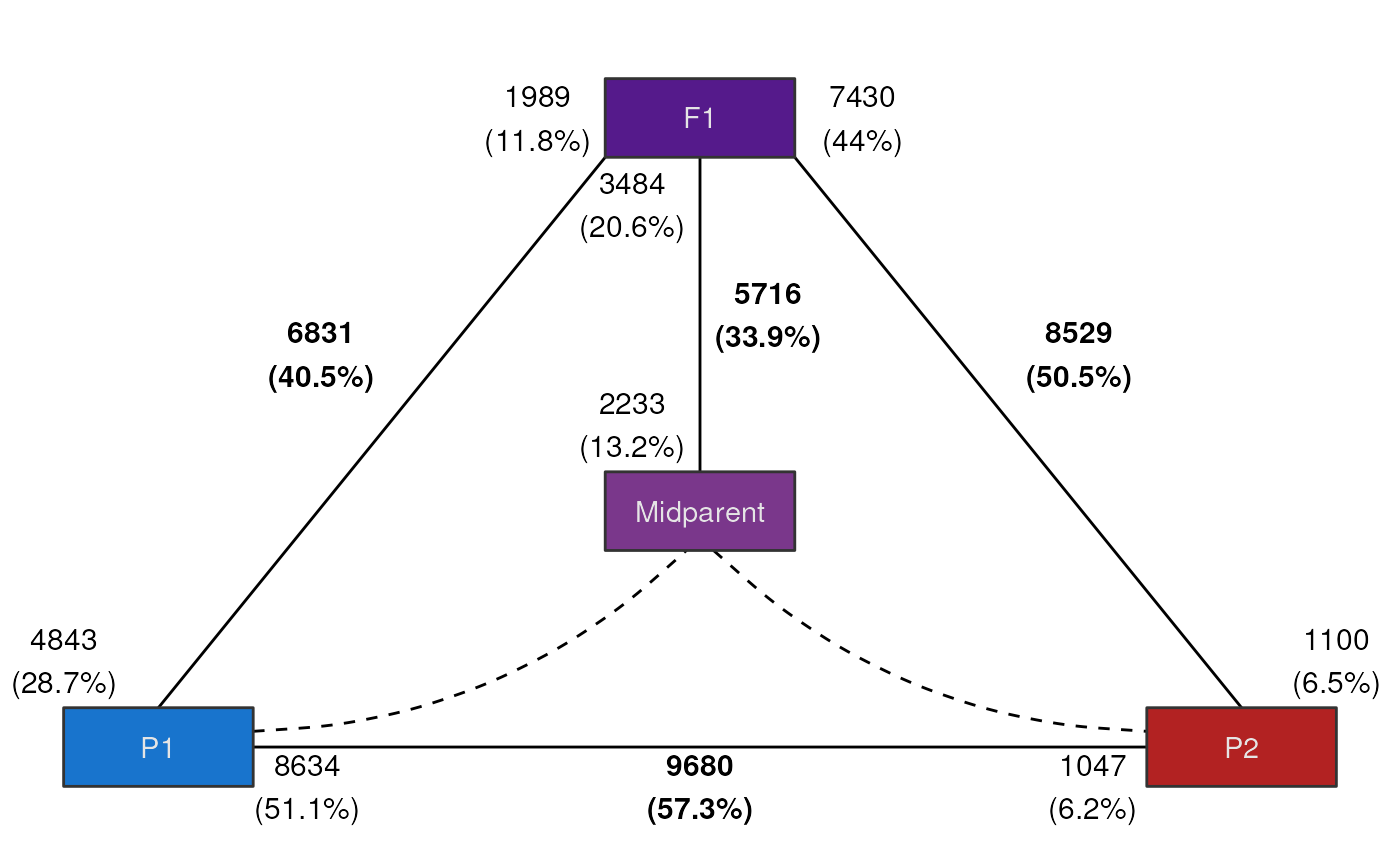
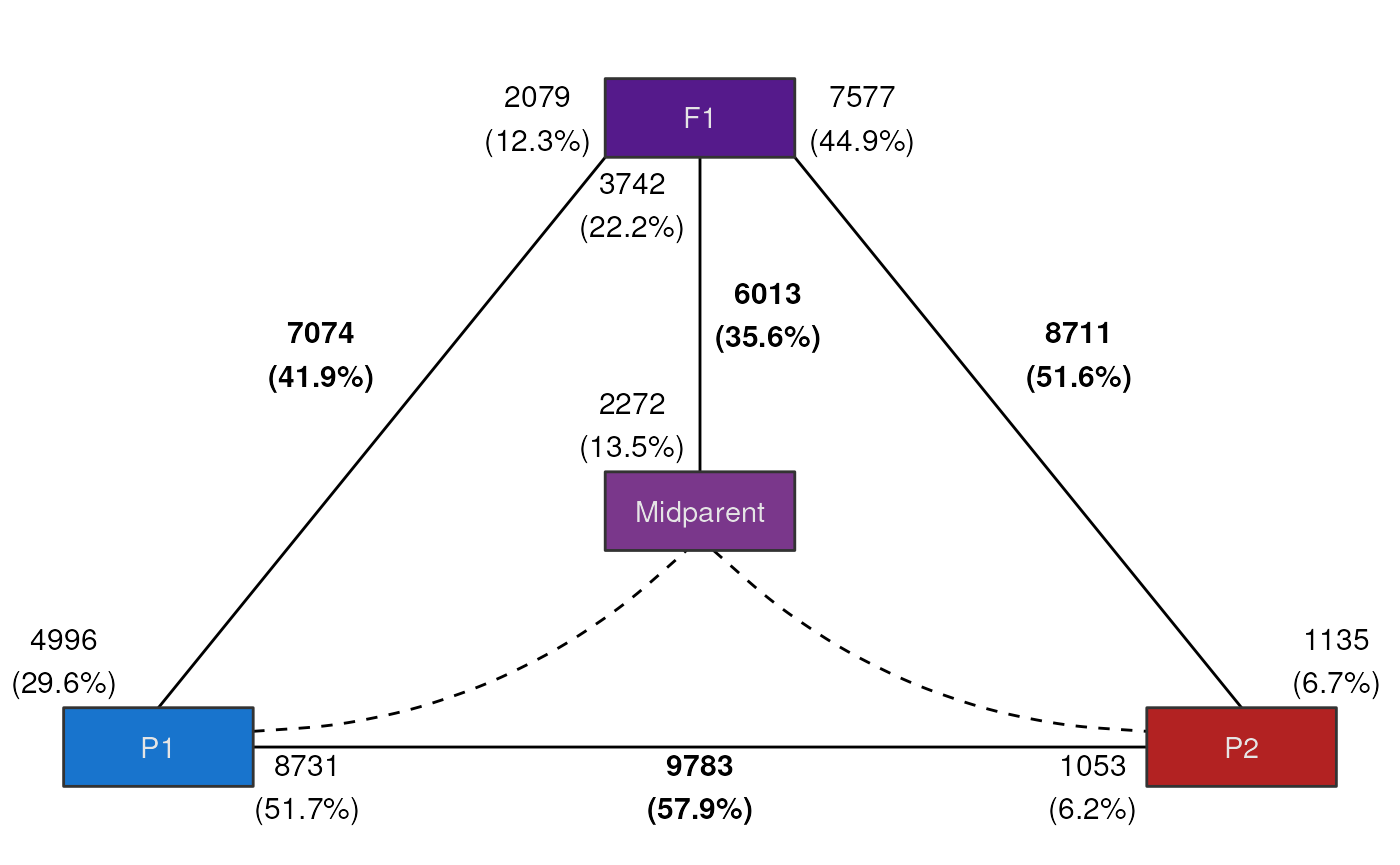
Deploying to gh-pages from @ almeidasilvaf/HybridExpress@a2151b02d52b8f1ba49b37ee3505ee9e380d1bde 🚀

diff --git a/articles/HybridExpress.html b/articles/HybridExpress.html
@@ -259,19 +259,19 @@ respectively).</p>
 <span><span class="co">#&gt; Cre01.g000300 1242 839 1216 1251 811 1785 1341 1306 1122 877 844 1082 1704 1739</span></span>
 <span><span class="co">#&gt; Cre01.g000350  412 264  294  336 252  478  233  221  195 155 190  201  299  272</span></span>
 <span><span class="co">#&gt;                S15  S16  S17  S18 midparent1 midparent2 midparent3 midparent4</span></span>
-<span><span class="co">#&gt; Cre01.g000050   29   22   21   16         22         22         28         14</span></span>
-<span><span class="co">#&gt; Cre01.g000150   37   17   24   21         43         46         36         20</span></span>
-<span><span class="co">#&gt; Cre01.g000200   24   26   18   21         19         24         22         16</span></span>
-<span><span class="co">#&gt; Cre01.g000250  358  339  340  332        333        348        410        254</span></span>
-<span><span class="co">#&gt; Cre01.g000300 1524 1720 1517 1243       1278       1182       1434        828</span></span>
-<span><span class="co">#&gt; Cre01.g000350  276  324  246  275        264        304        340        221</span></span>
+<span><span class="co">#&gt; Cre01.g000050   29   22   21   16         16         14         18         24</span></span>
+<span><span class="co">#&gt; Cre01.g000150   37   17   24   21         26         22         32         50</span></span>
+<span><span class="co">#&gt; Cre01.g000200   24   26   18   21         14         16         19         25</span></span>
+<span><span class="co">#&gt; Cre01.g000250  358  339  340  332        269        254        310        356</span></span>
+<span><span class="co">#&gt; Cre01.g000300 1524 1720 1517 1243        966        960       1030       1292</span></span>
+<span><span class="co">#&gt; Cre01.g000350  276  324  246  275        224        232        242        322</span></span>
 <span><span class="co">#&gt;               midparent5 midparent6</span></span>
-<span><span class="co">#&gt; Cre01.g000050         20         14</span></span>
-<span><span class="co">#&gt; Cre01.g000150         72         31</span></span>
-<span><span class="co">#&gt; Cre01.g000200         22         17</span></span>
-<span><span class="co">#&gt; Cre01.g000250        303        216</span></span>
-<span><span class="co">#&gt; Cre01.g000300       1278        858</span></span>
-<span><span class="co">#&gt; Cre01.g000350        278        210</span></span>
+<span><span class="co">#&gt; Cre01.g000050         20         27</span></span>
+<span><span class="co">#&gt; Cre01.g000150         66         52</span></span>
+<span><span class="co">#&gt; Cre01.g000200         18         26</span></span>
+<span><span class="co">#&gt; Cre01.g000250        246        430</span></span>
+<span><span class="co">#&gt; Cre01.g000300       1064       1546</span></span>
+<span><span class="co">#&gt; Cre01.g000350        246        350</span></span>
 <span></span>
 <span><span class="co"># Alternative 1: using the sum of the counts</span></span>
 <span><span class="fu"><a href="../reference/add_midparent_expression.html">add_midparent_expression</a></span><span class="op">(</span><span class="va">se_chlamy</span>, method <span class="op">=</span> <span class="st">"sum"</span><span class="op">)</span> <span class="op">|&gt;</span></span>
@@ -285,19 +285,19 @@ respectively).</p>
 <span><span class="co">#&gt; Cre01.g000300 1242 839 1216 1251 811 1785 1341 1306 1122 877 844 1082 1704 1739</span></span>
 <span><span class="co">#&gt; Cre01.g000350  412 264  294  336 252  478  233  221  195 155 190  201  299  272</span></span>
 <span><span class="co">#&gt;                S15  S16  S17  S18 midparent1 midparent2 midparent3 midparent4</span></span>
-<span><span class="co">#&gt; Cre01.g000050   29   22   21   16         32         54         48         46</span></span>
-<span><span class="co">#&gt; Cre01.g000150   37   17   24   21         81         91        101        140</span></span>
-<span><span class="co">#&gt; Cre01.g000200   24   26   18   21         39         44         50         41</span></span>
-<span><span class="co">#&gt; Cre01.g000250  358  339  340  332        668        745        712        587</span></span>
-<span><span class="co">#&gt; Cre01.g000300 1524 1720 1517 1243       2522       2662       2583       2373</span></span>
-<span><span class="co">#&gt; Cre01.g000350  276  324  246  275        515        633        645        531</span></span>
+<span><span class="co">#&gt; Cre01.g000050   29   22   21   16         32         50         34         58</span></span>
+<span><span class="co">#&gt; Cre01.g000150   37   17   24   21         68        150         70         86</span></span>
+<span><span class="co">#&gt; Cre01.g000200   24   26   18   21         32         43         38         50</span></span>
+<span><span class="co">#&gt; Cre01.g000250  358  339  340  332        554        604        527        810</span></span>
+<span><span class="co">#&gt; Cre01.g000300 1524 1720 1517 1243       2093       2592       1961       2629</span></span>
+<span><span class="co">#&gt; Cre01.g000350  276  324  246  275        449        569        459        668</span></span>
 <span><span class="co">#&gt;               midparent5 midparent6</span></span>
-<span><span class="co">#&gt; Cre01.g000050         29         28</span></span>
-<span><span class="co">#&gt; Cre01.g000150         39         43</span></span>
-<span><span class="co">#&gt; Cre01.g000200         31         33</span></span>
-<span><span class="co">#&gt; Cre01.g000250        508        507</span></span>
-<span><span class="co">#&gt; Cre01.g000300       1655       1921</span></span>
-<span><span class="co">#&gt; Cre01.g000350        442        465</span></span>
+<span><span class="co">#&gt; Cre01.g000050         38         25</span></span>
+<span><span class="co">#&gt; Cre01.g000150         64         57</span></span>
+<span><span class="co">#&gt; Cre01.g000200         43         32</span></span>
+<span><span class="co">#&gt; Cre01.g000250        675        557</span></span>
+<span><span class="co">#&gt; Cre01.g000300       2324       2117</span></span>
+<span><span class="co">#&gt; Cre01.g000350        613        473</span></span>
 <span></span>
 <span><span class="co"># Alternative 2: using the weighted mean of the counts (weights = ploidy)</span></span>
 <span><span class="va">w</span> <span class="op">&lt;-</span> <span class="fu"><a href="https://rdrr.io/r/base/c.html" class="external-link">c</a></span><span class="op">(</span><span class="fl">2</span>, <span class="fl">1</span><span class="op">)</span> <span class="co"># P1 = diploid; P2 = haploid</span></span>
@@ -312,19 +312,19 @@ respectively).</p>
 <span><span class="co">#&gt; Cre01.g000300 1242 839 1216 1251 811 1785 1341 1306 1122 877 844 1082 1704 1739</span></span>
 <span><span class="co">#&gt; Cre01.g000350  412 264  294  336 252  478  233  221  195 155 190  201  299  272</span></span>
 <span><span class="co">#&gt;                S15  S16  S17  S18 midparent1 midparent2 midparent3 midparent4</span></span>
-<span><span class="co">#&gt; Cre01.g000050   29   22   21   16         27         33         22         36</span></span>
-<span><span class="co">#&gt; Cre01.g000150   37   17   24   21         26         50         16         35</span></span>
-<span><span class="co">#&gt; Cre01.g000200   24   26   18   21         33         29         21         34</span></span>
-<span><span class="co">#&gt; Cre01.g000250  358  339  340  332        222        201        210        286</span></span>
-<span><span class="co">#&gt; Cre01.g000300 1524 1720 1517 1243       1391       1728       1532       2061</span></span>
-<span><span class="co">#&gt; Cre01.g000350  276  324  246  275        201        190        165        233</span></span>
+<span><span class="co">#&gt; Cre01.g000050   29   22   21   16         27         36         25         29</span></span>
+<span><span class="co">#&gt; Cre01.g000150   37   17   24   21         38         35         27         30</span></span>
+<span><span class="co">#&gt; Cre01.g000200   24   26   18   21         24         34         27         32</span></span>
+<span><span class="co">#&gt; Cre01.g000250  358  339  340  332        189        286        181        232</span></span>
+<span><span class="co">#&gt; Cre01.g000300 1524 1720 1517 1243       1555       2061       1453       1576</span></span>
+<span><span class="co">#&gt; Cre01.g000350  276  324  246  275        179        233        166        202</span></span>
 <span><span class="co">#&gt;               midparent5 midparent6</span></span>
-<span><span class="co">#&gt; Cre01.g000050         17         23</span></span>
-<span><span class="co">#&gt; Cre01.g000150         15         23</span></span>
-<span><span class="co">#&gt; Cre01.g000200         17         25</span></span>
-<span><span class="co">#&gt; Cre01.g000250        148        176</span></span>
-<span><span class="co">#&gt; Cre01.g000300       1125       1307</span></span>
-<span><span class="co">#&gt; Cre01.g000350        136        153</span></span></code></pre></div>
+<span><span class="co">#&gt; Cre01.g000050         24         17</span></span>
+<span><span class="co">#&gt; Cre01.g000150         21         15</span></span>
+<span><span class="co">#&gt; Cre01.g000200         25         17</span></span>
+<span><span class="co">#&gt; Cre01.g000250        206        148</span></span>
+<span><span class="co">#&gt; Cre01.g000300       1373       1125</span></span>
+<span><span class="co">#&gt; Cre01.g000350        161        136</span></span></code></pre></div>
 <p>We will proceed our analyses with the midparent expression values
 obtained from the mean of the counts, stored in the <code>se</code>
 object.</p>
@@ -419,19 +419,19 @@ matrix.</p>
 <span><span class="co">#&gt; ERCC-00170   97   95   73  101   70  118  186  148  110  167  110  103   72</span></span>
 <span><span class="co">#&gt; ERCC-00171 4644 4959 3554 5357 4170 5946 8207 7915 4992 7843 6455 5884 4537</span></span>
 <span><span class="co">#&gt;             S14  S15  S16  S17  S18 midparent1 midparent2 midparent3 midparent4</span></span>
-<span><span class="co">#&gt; ERCC-00163   67   62   80   88   47         94         84         93         65</span></span>
-<span><span class="co">#&gt; ERCC-00164    4    3    5    4    2          3          0          2          4</span></span>
-<span><span class="co">#&gt; ERCC-00165  143  115  185  192  136        162        143        162        147</span></span>
-<span><span class="co">#&gt; ERCC-00168    6    2   11    5    2          4          2          4          1</span></span>
-<span><span class="co">#&gt; ERCC-00170   99   64  121  103   84        130        104        110         90</span></span>
-<span><span class="co">#&gt; ERCC-00171 5665 4598 6168 5771 4747       5880       4818       5915       5312</span></span>
+<span><span class="co">#&gt; ERCC-00163   67   62   80   88   47         72         88         67        103</span></span>
+<span><span class="co">#&gt; ERCC-00164    4    3    5    4    2          2          3          2          3</span></span>
+<span><span class="co">#&gt; ERCC-00165  143  115  185  192  136        128        142        132        192</span></span>
+<span><span class="co">#&gt; ERCC-00168    6    2   11    5    2          2          4          1          4</span></span>
+<span><span class="co">#&gt; ERCC-00170   99   64  121  103   84         90         99         92        142</span></span>
+<span><span class="co">#&gt; ERCC-00171 5665 4598 6168 5771 4747       4581       5422       5004       6426</span></span>
 <span><span class="co">#&gt;            midparent5 midparent6</span></span>
-<span><span class="co">#&gt; ERCC-00163        102         92</span></span>
-<span><span class="co">#&gt; ERCC-00164          2          4</span></span>
-<span><span class="co">#&gt; ERCC-00165        206        178</span></span>
-<span><span class="co">#&gt; ERCC-00168          2          5</span></span>
-<span><span class="co">#&gt; ERCC-00170        124        131</span></span>
-<span><span class="co">#&gt; ERCC-00171       6636       6401</span></span></code></pre></div>
+<span><span class="co">#&gt; ERCC-00163         92        106</span></span>
+<span><span class="co">#&gt; ERCC-00164          2          2</span></span>
+<span><span class="co">#&gt; ERCC-00165        192        212</span></span>
+<span><span class="co">#&gt; ERCC-00168          4          4</span></span>
+<span><span class="co">#&gt; ERCC-00170        134        133</span></span>
+<span><span class="co">#&gt; ERCC-00171       6600       6930</span></span></code></pre></div>
 <p>Now, we will use <code><a href="../reference/get_deg_list.html">get_deg_list()</a></code> to get differentially
 expressed genes (DEGs) for each contrast while using spike-in
 normalization.</p>
@@ -454,24 +454,24 @@ normalization.</p>
 <span><span class="co">## Accessing gene-wise test statistics for contrast `F1_vs_P1`</span></span>
 <span><span class="fu"><a href="https://rdrr.io/r/utils/head.html" class="external-link">head</a></span><span class="op">(</span><span class="va">deg_list</span><span class="op">$</span><span class="va">F1_vs_P1</span><span class="op">)</span></span>
 <span><span class="co">#&gt;                baseMean log2FoldChange     lfcSE      stat       pvalue</span></span>
-<span><span class="co">#&gt; Cre01.g000450  39.49524     -1.1632185 0.2117781 -5.492629 3.959948e-08</span></span>
-<span><span class="co">#&gt; Cre01.g000500  32.92001      0.5814708 0.2339150  2.485821 1.292530e-02</span></span>
-<span><span class="co">#&gt; Cre01.g000750 103.06457      0.8809112 0.1825994  4.824282 1.405084e-06</span></span>
-<span><span class="co">#&gt; Cre01.g000850 561.55778     -0.5622595 0.2026641 -2.774342 5.531349e-03</span></span>
-<span><span class="co">#&gt; Cre01.g000900 472.11168      0.6808258 0.2030674  3.352709 8.002484e-04</span></span>
-<span><span class="co">#&gt; Cre01.g001000  10.32087     -6.6337813 0.9147439 -7.252064 4.104686e-13</span></span>
+<span><span class="co">#&gt; Cre01.g000450  39.31366     -1.1638924 0.2021314 -5.758099 8.506640e-09</span></span>
+<span><span class="co">#&gt; Cre01.g000500  32.73765      0.5804855 0.2260330  2.568145 1.022445e-02</span></span>
+<span><span class="co">#&gt; Cre01.g000750 102.97735      0.8807983 0.1782321  4.941861 7.738022e-07</span></span>
+<span><span class="co">#&gt; Cre01.g000850 559.27880     -0.5628686 0.1848477 -3.045040 2.326491e-03</span></span>
+<span><span class="co">#&gt; Cre01.g000900 471.69643      0.6805195 0.2013453  3.379862 7.252221e-04</span></span>
+<span><span class="co">#&gt; Cre01.g001000  10.31079     -6.6339949 0.9182469 -7.224631 5.024655e-13</span></span>
 <span><span class="co">#&gt;                       padj</span></span>
-<span><span class="co">#&gt; Cre01.g000450 2.498332e-07</span></span>
-<span><span class="co">#&gt; Cre01.g000500 2.704591e-02</span></span>
-<span><span class="co">#&gt; Cre01.g000750 6.843320e-06</span></span>
-<span><span class="co">#&gt; Cre01.g000850 1.277413e-02</span></span>
-<span><span class="co">#&gt; Cre01.g000900 2.263849e-03</span></span>
-<span><span class="co">#&gt; Cre01.g001000 5.489150e-12</span></span>
+<span><span class="co">#&gt; Cre01.g000450 5.292158e-08</span></span>
+<span><span class="co">#&gt; Cre01.g000500 2.113520e-02</span></span>
+<span><span class="co">#&gt; Cre01.g000750 3.556308e-06</span></span>
+<span><span class="co">#&gt; Cre01.g000850 5.618883e-03</span></span>
+<span><span class="co">#&gt; Cre01.g000900 1.964585e-03</span></span>
+<span><span class="co">#&gt; Cre01.g001000 5.596620e-12</span></span>
 <span></span>
 <span><span class="co">## Counting the number of DEGs per contrast</span></span>
 <span><span class="fu"><a href="https://rdrr.io/r/base/lapply.html" class="external-link">sapply</a></span><span class="op">(</span><span class="va">deg_list</span>, <span class="va">nrow</span><span class="op">)</span></span>
 <span><span class="co">#&gt;        P2_vs_P1        F1_vs_P1        F1_vs_P2 F1_vs_midparent </span></span>
-<span><span class="co">#&gt;            9680            6831            8529            5716</span></span></code></pre></div>
+<span><span class="co">#&gt;            9783            7074            8711            6013</span></span></code></pre></div>
 <p>To summarize the frequencies of up- and down-regulated genes per
 contrast in a single data frame, use the function
 <code><a href="../reference/get_deg_counts.html">get_deg_counts()</a></code>.</p>
@@ -481,10 +481,10 @@ contrast in a single data frame, use the function
 <span></span>
 <span><span class="va">deg_counts</span></span>
 <span><span class="co">#&gt;          contrast   up down total perc_up perc_down perc_total</span></span>
-<span><span class="co">#&gt; 1        P2_vs_P1 1047 8634  9680     8.1      66.6       74.7</span></span>
-<span><span class="co">#&gt; 2        F1_vs_P1 1989 4843  6831    15.3      37.4       52.7</span></span>
-<span><span class="co">#&gt; 3        F1_vs_P2 7430 1100  8529    57.3       8.5       65.8</span></span>
-<span><span class="co">#&gt; 4 F1_vs_midparent 3484 2233  5716    26.9      17.2       44.1</span></span></code></pre></div>
+<span><span class="co">#&gt; 1        P2_vs_P1 1053 8731  9783     8.1      67.3       75.5</span></span>
+<span><span class="co">#&gt; 2        F1_vs_P1 2079 4996  7074    16.0      38.5       54.6</span></span>
+<span><span class="co">#&gt; 3        F1_vs_P2 7577 1135  8711    58.4       8.8       67.2</span></span>
+<span><span class="co">#&gt; 4 F1_vs_midparent 3742 2272  6013    28.9      17.5       46.4</span></span></code></pre></div>
 <p>It is important to note that the columns <code>perc_up</code>,
 <code>perc_down</code>, and <code>perc_total</code> show the percentages
 of up-regulated, down-regulated, and all differentially expressed genes
@@ -515,10 +515,10 @@ percentages relative to the total number of genes in the genome.</p>
 <code class="sourceCode R"><span><span class="va">deg_counts</span> <span class="op">&lt;-</span> <span class="fu"><a href="../reference/get_deg_counts.html">get_deg_counts</a></span><span class="op">(</span><span class="va">deg_list</span><span class="op">)</span></span>
 <span><span class="va">deg_counts</span></span>
 <span><span class="co">#&gt;          contrast   up down total perc_up perc_down perc_total</span></span>
-<span><span class="co">#&gt; 1        P2_vs_P1 1047 8634  9680     6.2      51.1       57.3</span></span>
-<span><span class="co">#&gt; 2        F1_vs_P1 1989 4843  6831    11.8      28.7       40.5</span></span>
-<span><span class="co">#&gt; 3        F1_vs_P2 7430 1100  8529    44.0       6.5       50.5</span></span>
-<span><span class="co">#&gt; 4 F1_vs_midparent 3484 2233  5716    20.6      13.2       33.9</span></span></code></pre></div>
+<span><span class="co">#&gt; 1        P2_vs_P1 1053 8731  9783     6.2      51.7       57.9</span></span>
+<span><span class="co">#&gt; 2        F1_vs_P1 2079 4996  7074    12.3      29.6       41.9</span></span>
+<span><span class="co">#&gt; 3        F1_vs_P2 7577 1135  8711    44.9       6.7       51.6</span></span>
+<span><span class="co">#&gt; 4 F1_vs_midparent 3742 2272  6013    22.2      13.5       35.6</span></span></code></pre></div>
 <p>Finally, we can summarize everything in a single publication-ready
 figure using the plot <code><a href="../reference/plot_expression_triangle.html">plot_expression_triangle()</a></code>, which
 shows the ‘experimental trio’ (i.e., hybrid and its progenitors) as a
@@ -533,8 +533,8 @@ edge (line), numbers in the middle (in bold) indicate the frequency of
 all DEGs, and numbers at the ends (close to boxes) indicate the
 frequency of up-regulated genes in each generation. For instance, the
 figure above shows that, for the contrast between F1 and P1, there are
-6831 DEGs (40.5% of the genome), of which 1989 are up-regulated in F1,
-and 4843 are up-regulated in P1.</p>
+7074 DEGs (41.9% of the genome), of which 2079 are up-regulated in F1,
+and 4996 are up-regulated in P1.</p>
 <p>For a custom figure, you can also specify your own color palette and
 labels for the boxes. For example:</p>
 <div class="sourceCode" id="cb14"><pre class="downlit sourceCode r">
@@ -548,6 +548,83 @@ labels for the boxes. For example:</p>
 <div class="section level2">
 <h2 id="expression-based-gene-classification">Expression-based gene classification<a class="anchor" aria-label="anchor" href="#expression-based-gene-classification"></a>
 </h2>
+<p>After identifying DEGs for different contrasts, you’d typically want
+to classify your genes into expression partitions based on their
+expression patterns. This can be performed with the function
+<code><a href="../reference/expression_partitioning.html">expression_partitioning()</a></code>, which classifies genes into one
+of the 12 <strong>categories</strong> as in <span class="citation">Rapp,
+Udall, and Wendel (2009)</span>, and into 5 major
+<strong>classes</strong> that summarize the 12 categories. The five
+classes are:</p>
+<ol style="list-style-type: decimal">
+<li>
+<strong>Transgressive up-regulation (UP):</strong> gene is
+up-regulated in the hybrid as compared to both parents.</li>
+<li>
+<strong>Transgressive down-regulation (DOWN):</strong> gene is
+down-regulated in the hybrid as compared to both parents.</li>
+<li>
+<strong>Additivity (ADD):</strong> gene expression in the hybrid is
+the mean of both parents (additive effect).</li>
+<li>
+<strong>Expression-level dominance toward parent 1
+(ELD_P1):</strong> gene expression in the hybrid is the same as in
+parent 1, but different from parent 2.</li>
+<li>
+<strong>Expression-level dominance toward parent 2
+(ELD_P2):</strong> gene expression in the hybrid is the same as in
+parent 2, but different from parent 1.</li>
+</ol>
+<div class="sourceCode" id="cb15"><pre class="downlit sourceCode r">
+<code class="sourceCode R"><span><span class="co"># Classify genes in expression partitions</span></span>
+<span><span class="va">exp_partitions</span> <span class="op">&lt;-</span> <span class="fu"><a href="../reference/expression_partitioning.html">expression_partitioning</a></span><span class="op">(</span><span class="va">deg_list</span><span class="op">)</span></span>
+<span></span>
+<span><span class="co"># Inspect the output</span></span>
+<span><span class="fu"><a href="https://rdrr.io/r/utils/head.html" class="external-link">head</a></span><span class="op">(</span><span class="va">exp_partitions</span><span class="op">)</span></span>
+<span><span class="co">#&gt;            Gene Category Class lFC_F1_vs_P1 lFC_F1_vs_P2</span></span>
+<span><span class="co">#&gt; 1 Cre01.g003650        1   ADD    0.7833401   -1.0484704</span></span>
+<span><span class="co">#&gt; 2 Cre01.g005150        1   ADD    1.0468778   -0.5043874</span></span>
+<span><span class="co">#&gt; 3 Cre01.g008600        1   ADD    5.0497424   -1.4856888</span></span>
+<span><span class="co">#&gt; 4 Cre01.g013500        1   ADD    2.1098246   -1.5331691</span></span>
+<span><span class="co">#&gt; 5 Cre01.g034850        1   ADD    1.5835491   -0.7610260</span></span>
+<span><span class="co">#&gt; 6 Cre01.g800005        1   ADD    1.4927376   -0.9315539</span></span>
+<span></span>
+<span><span class="co"># Count number of genes per category</span></span>
+<span><span class="fu"><a href="https://rdrr.io/r/base/table.html" class="external-link">table</a></span><span class="op">(</span><span class="va">exp_partitions</span><span class="op">$</span><span class="va">Category</span><span class="op">)</span></span>
+<span><span class="co">#&gt; </span></span>
+<span><span class="co">#&gt;    1    2    3    4    5    6    7    8    9   10   11   12 </span></span>
+<span><span class="co">#&gt;  113  292  113 3090  152  647  238  763  304  285 1681 2578</span></span>
+<span></span>
+<span><span class="co"># Count number of genes per class</span></span>
+<span><span class="fu"><a href="https://rdrr.io/r/base/table.html" class="external-link">table</a></span><span class="op">(</span><span class="va">exp_partitions</span><span class="op">$</span><span class="va">Class</span><span class="op">)</span></span>
+<span><span class="co">#&gt; </span></span>
+<span><span class="co">#&gt;     UP   DOWN    ADD ELD_P1 ELD_P2 </span></span>
+<span><span class="co">#&gt;   1562    636   2691   3394   1973</span></span></code></pre></div>
+<p>To visualize the expression partitions as a scatter plot of
+expression divergences, you can use the function
+<code><a href="../reference/plot_expression_partitions.html">plot_expression_partitions()</a></code>.</p>
+<div class="sourceCode" id="cb16"><pre class="downlit sourceCode r">
+<code class="sourceCode R"><span><span class="co"># Plot partitions as a scatter plot of divergences</span></span>
+<span><span class="fu"><a href="../reference/plot_expression_partitions.html">plot_expression_partitions</a></span><span class="op">(</span><span class="va">exp_partitions</span>, group_by <span class="op">=</span> <span class="st">"Category"</span><span class="op">)</span></span></code></pre></div>
+<p><img src="HybridExpress_files/figure-html/unnamed-chunk-14-1.png" width="768"></p>
+<p>By default, genes are grouped by <code>Category</code>. However, you
+can also group genes by <code>Class</code> as follows:</p>
+<div class="sourceCode" id="cb17"><pre class="downlit sourceCode r">
+<code class="sourceCode R"><span><span class="co"># Group by `Class`</span></span>
+<span><span class="fu"><a href="../reference/plot_expression_partitions.html">plot_expression_partitions</a></span><span class="op">(</span><span class="va">exp_partitions</span>, group_by <span class="op">=</span> <span class="st">"Class"</span><span class="op">)</span></span></code></pre></div>
+<p><img src="HybridExpress_files/figure-html/unnamed-chunk-15-1.png" width="768"></p>
+<p>You can also visualize the frequencies of genes in each partition
+with the function <code><a href="../reference/plot_partition_frequencies.html">plot_partition_frequencies()</a></code>.</p>
+<div class="sourceCode" id="cb18"><pre class="downlit sourceCode r">
+<code class="sourceCode R"><span><span class="co"># Visualize frequency of genes in each partition</span></span>
+<span><span class="co">## By `Category` (default)</span></span>
+<span><span class="fu"><a href="../reference/plot_partition_frequencies.html">plot_partition_frequencies</a></span><span class="op">(</span><span class="va">exp_partitions</span><span class="op">)</span></span></code></pre></div>
+<p><img src="HybridExpress_files/figure-html/unnamed-chunk-16-1.png" width="700"></p>
+<div class="sourceCode" id="cb19"><pre class="downlit sourceCode r">
+<code class="sourceCode R"><span></span>
+<span><span class="co">## By `Class`</span></span>
+<span><span class="fu"><a href="../reference/plot_partition_frequencies.html">plot_partition_frequencies</a></span><span class="op">(</span><span class="va">exp_partitions</span>, group_by <span class="op">=</span> <span class="st">"Class"</span><span class="op">)</span></span></code></pre></div>
+<p><img src="HybridExpress_files/figure-html/unnamed-chunk-16-2.png" width="700"></p>
 </div>
 <div class="section level2">
 <h2 class="unnumbered" id="faq">FAQ<a class="anchor" aria-label="anchor" href="#faq"></a>
@@ -613,7 +690,7 @@ labels for the boxes. For example:</p>
 <span><span class="co">#&gt;  glue                   1.6.2     <span style="color: #555555;">2022-02-24</span> <span style="color: #555555;">[2]</span> <span style="color: #555555;">CRAN (R 4.3.1)</span></span></span>
 <span><span class="co">#&gt;  gtable                 0.3.4     <span style="color: #555555;">2023-08-21</span> <span style="color: #555555;">[1]</span> <span style="color: #555555;">CRAN (R 4.3.1)</span></span></span>
 <span><span class="co">#&gt;  highr                  0.10      <span style="color: #555555;">2022-12-22</span> <span style="color: #555555;">[2]</span> <span style="color: #555555;">CRAN (R 4.3.1)</span></span></span>
-<span><span class="co">#&gt;  htmltools              0.5.6.1   <span style="color: #555555;">2023-10-06</span> <span style="color: #555555;">[2]</span> <span style="color: #555555;">CRAN (R 4.3.1)</span></span></span>
+<span><span class="co">#&gt;  htmltools              0.5.7     <span style="color: #555555;">2023-11-03</span> <span style="color: #555555;">[1]</span> <span style="color: #555555;">CRAN (R 4.3.1)</span></span></span>
 <span><span class="co">#&gt;  HybridExpress        * 0.99.0    <span style="color: #555555;">2023-11-03</span> <span style="color: #555555;">[1]</span> <span style="color: #555555;">Bioconductor</span></span></span>
 <span><span class="co">#&gt;  IRanges              * 2.36.0    <span style="color: #555555;">2023-10-24</span> <span style="color: #555555;">[1]</span> <span style="color: #555555;">Bioconductor</span></span></span>
 <span><span class="co">#&gt;  iterators              1.0.14    <span style="color: #555555;">2022-02-05</span> <span style="color: #555555;">[1]</span> <span style="color: #555555;">CRAN (R 4.3.1)</span></span></span>
